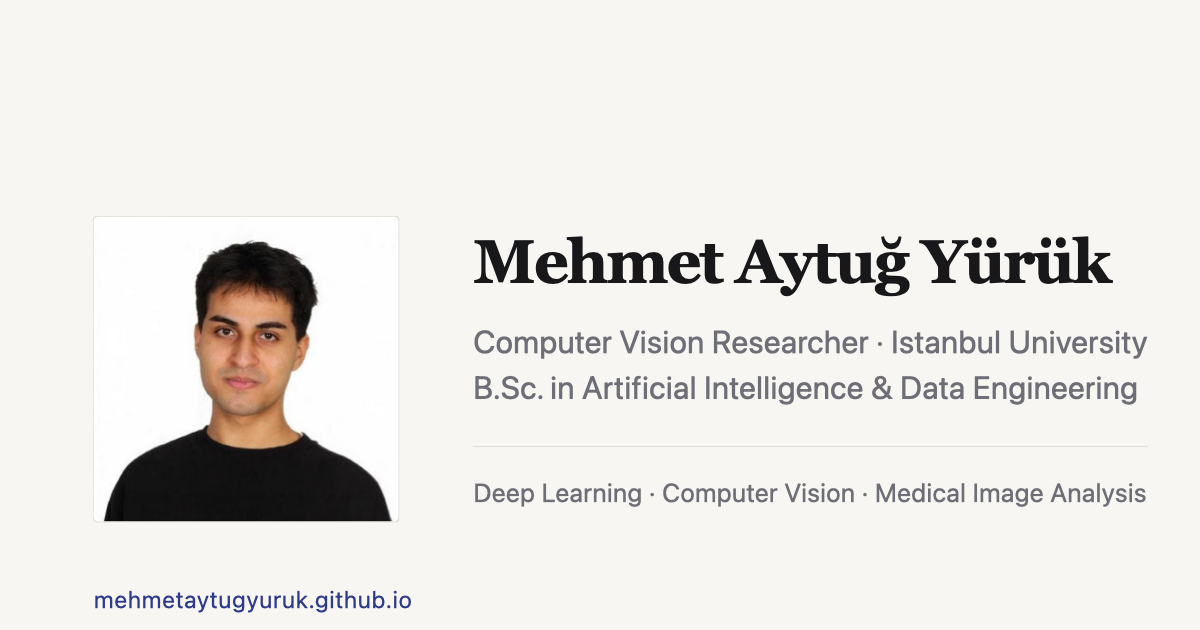
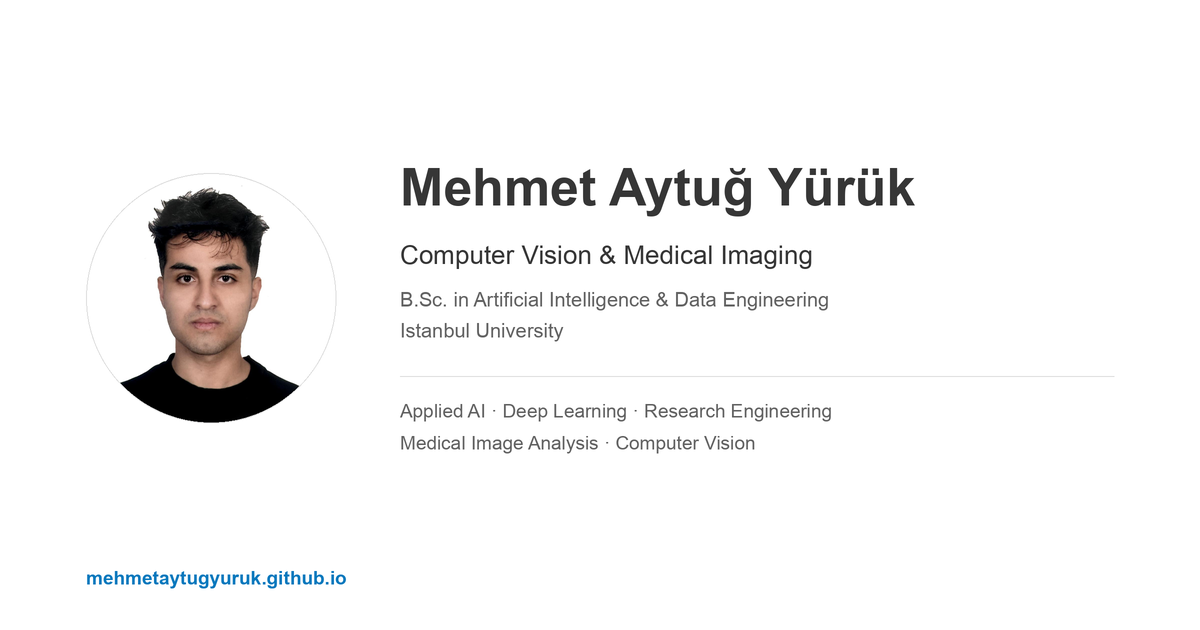
Refresh profile preview and clean unused site data

diff --git a/tools/og-card.html b/tools/og-card.html
@@ -1,40 +1,86 @@
-<!DOCTYPE html><html><head><meta charset="utf-8">
-<link rel="preconnect" href="https://fonts.googleapis.com">
-<link rel="preconnect" href="https://fonts.gstatic.com" crossorigin>
-<link href="https://fonts.googleapis.com/css2?family=Fraunces:opsz,wght@9..144,300..700&display=swap" rel="stylesheet">
-<style>
-  *{box-sizing:border-box;margin:0;padding:0}
-  html,body{width:1200px;height:630px;overflow:hidden}
-  body{
-    background:#F7F6F2;color:#18181B;
-    font-family:system-ui,-apple-system,'Segoe UI',Roboto,sans-serif;
-    display:flex;align-items:center;gap:64px;
-    padding:0 80px;
-  }
-  .portrait{
-    width:260px;height:260px;border-radius:4px;object-fit:contain;
-    flex-shrink:0;
-    box-shadow:0 0 0 1px #E2E0D8;
-  }
-  .name{
-    font-family:'Fraunces',Georgia,serif;font-weight:600;
-    font-size:52px;line-height:1.05;letter-spacing:-0.03em;
-    margin-bottom:22px;
-  }
-  .role{font-size:27px;color:#6E6E76;letter-spacing:0.01em;line-height:1.45}
-  .rule{height:1px;background:#E2E0D8;margin:30px 0 26px}
-  .tags{font-size:22px;color:#6E6E76;letter-spacing:0.02em}
-  .url{
-    position:absolute;top:500px;left:80px;
-    font-size:20px;color:#2E3A8C;letter-spacing:0.04em;
-  }
-</style></head><body>
-  <img class="portrait" src="../assets/images/site/photo.png" alt="">
-  <div>
-    <div class="name">Mehmet Aytuğ Yürük</div>
-    <div class="role">Computer Vision Researcher · Istanbul University<br>B.Sc. in Artificial Intelligence &amp; Data Engineering</div>
-    <div class="rule"></div>
-    <div class="tags">Deep Learning · Computer Vision · Medical Image Analysis</div>
-  </div>
-  <div class="url">mehmetaytugyuruk.github.io</div>
-</body></html>
+<!doctype html>
+<html lang="en">
+  <head>
+    <meta charset="utf-8">
+    <meta name="viewport" content="width=device-width, initial-scale=1">
+    <title>Mehmet Aytuğ Yürük · Social preview</title>
+    <link rel="preconnect" href="https://fonts.googleapis.com">
+    <link rel="preconnect" href="https://fonts.gstatic.com" crossorigin>
+    <link href="https://fonts.googleapis.com/css2?family=Google+Sans:wght@400;500;600;700&amp;family=Noto+Sans:wght@400;500;600;700&amp;display=swap" rel="stylesheet">
+    <style>
+      * { box-sizing: border-box; }
+      html, body { width: 1200px; height: 630px; margin: 0; }
+      body {
+        display: flex;
+        align-items: center;
+        gap: 54px;
+        padding: 0 86px;
+        color: #363636;
+        background: #fff;
+        font-family: "Google Sans", "Noto Sans", Arial, sans-serif;
+      }
+      .portrait {
+        width: 250px;
+        height: 250px;
+        flex: 0 0 auto;
+        overflow: hidden;
+        border: 1px solid #dedede;
+        border-radius: 50%;
+        background: #f5f5f5;
+        object-fit: contain;
+      }
+      .profile { flex: 1; min-width: 0; }
+      .name {
+        margin: 0;
+        font-size: 51px;
+        font-weight: 700;
+        letter-spacing: -0.045em;
+        line-height: 1.12;
+      }
+      .role {
+        margin: 20px 0 0;
+        font-size: 26px;
+        font-weight: 500;
+        line-height: 1.4;
+      }
+      .education {
+        margin: 7px 0 0;
+        color: #626262;
+        font-size: 20px;
+        line-height: 1.5;
+      }
+      .rule {
+        height: 1px;
+        margin: 28px 0 22px;
+        background: #dedede;
+      }
+      .focus {
+        margin: 0;
+        color: #626262;
+        font-size: 19px;
+        line-height: 1.7;
+      }
+      .url {
+        position: absolute;
+        bottom: 43px;
+        left: 86px;
+        margin: 0;
+        color: #0878bd;
+        font-size: 19px;
+        font-weight: 600;
+        letter-spacing: 0.01em;
+      }
+    </style>
+  </head>
+  <body>
+    <img class="portrait" src="../assets/images/site/photo.png" alt="">
+    <main class="profile">
+      <h1 class="name">Mehmet Aytuğ Yürük</h1>
+      <p class="role">Computer Vision &amp; Medical Imaging</p>
+      <p class="education">B.Sc. in Artificial Intelligence &amp; Data Engineering<br>Istanbul University</p>
+      <div class="rule"></div>
+      <p class="focus">Applied AI · Deep Learning · Research Engineering</p>
+    </main>
+    <p class="url">mehmetaytugyuruk.github.io</p>
+  </body>
+</html>

diff --git a/index.html b/index.html
@@ -3,7 +3,10 @@ layout: default
 title: Mehmet Aytuğ Yürük
 description: Computer vision and medical imaging, with a focus on applied AI, deep learning, and research engineering.
 home: true
-nav_key: home
+og_image: "/assets/images/site/og-image.png?v=20260925-profile"
+og_image_width: 1200
+og_image_height: 630
+og_image_alt: Social preview with Mehmet Aytuğ Yürük's portrait, role, education, and research areas.
 ---
 <main id="main-content" class="home-main">
   <section class="hero" aria-labelledby="hero-title">

diff --git a/assets/css/site.css b/assets/css/site.css
@@ -4,10 +4,8 @@
   color-scheme: light;
   --ink: #363636;
   --muted: #626262;
-  --quiet: #777;
   --link: #0878bd;
   --surface: #f5f5f5;
-  --surface-deep: #fafafa;
   --rule: #dedede;
   --shell: 1000px;
   --narrow: 800px;
@@ -76,8 +74,7 @@ h2,
 h3,
 .hero-title,
 .hero-email,
-.publication-authors,
-.teaser-caption {
+.publication-authors {
   font-family: "Google Sans", "Noto Sans", Arial, sans-serif;
 }
 

diff --git a/README.md b/README.md
@@ -11,11 +11,12 @@ The site uses the native Jekyll support provided by GitHub Pages:
 
 ```text
 _config.yml             Site configuration
-_data/                  Profile, research, publication, and software data
-_includes/              Shared publication and footer partials
-_layouts/               Shared HTML document and page layouts
+_data/                  Profile, education, publication, and software data
+_includes/              Shared publication-card markup
+_layouts/               Shared document and legacy-route redirect layouts
 assets/css/             Site stylesheet
 assets/images/          Site, publication, and project imagery
+tools/og-card.html      Source for the social preview image
 index.html               Homepage
 publications.html         Redirect to the Publications section on the home page
 projects.html             Redirect to the Projects section on the home page
@@ -26,8 +27,7 @@ education.html            Redirect to the Education section on the home page
 pages/                    Legacy route redirects
 ```
 
-Publication facts and links are stored in `_data/publications.yml`; the home
-page reads from that source.
+Profile, education, publication, and project content is kept in `_data/`.
 
 ## Local development
 
